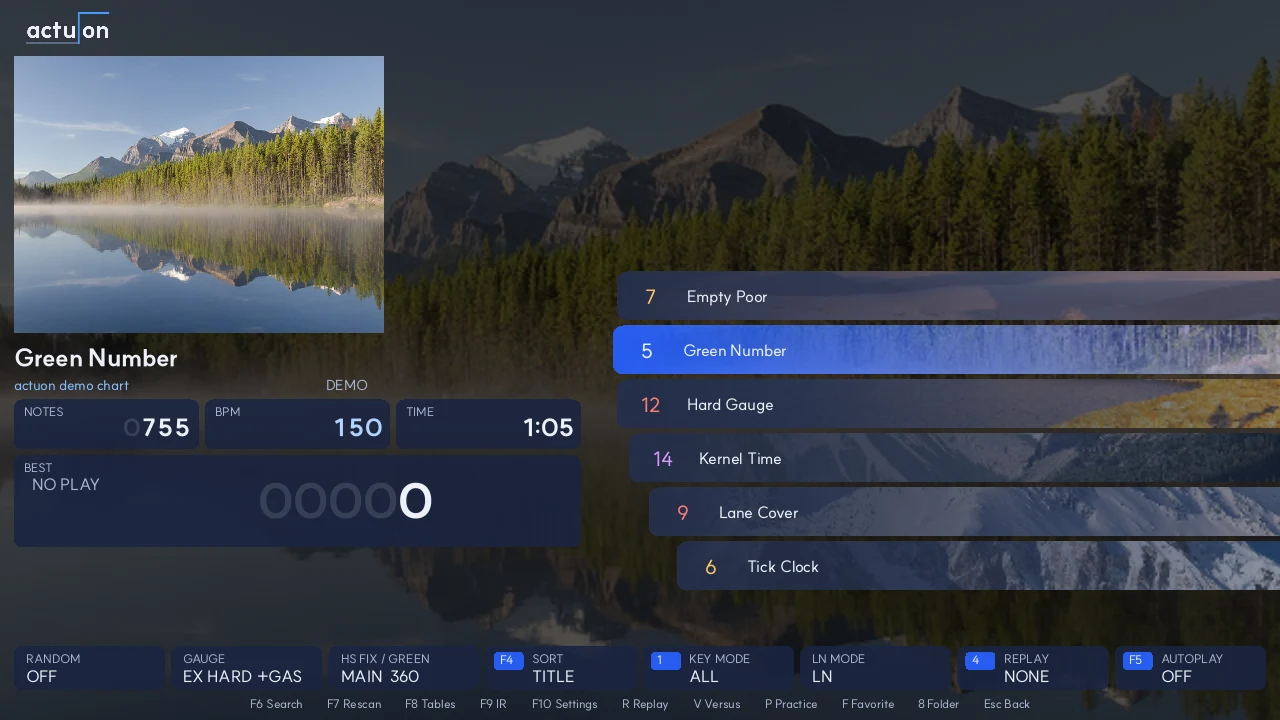
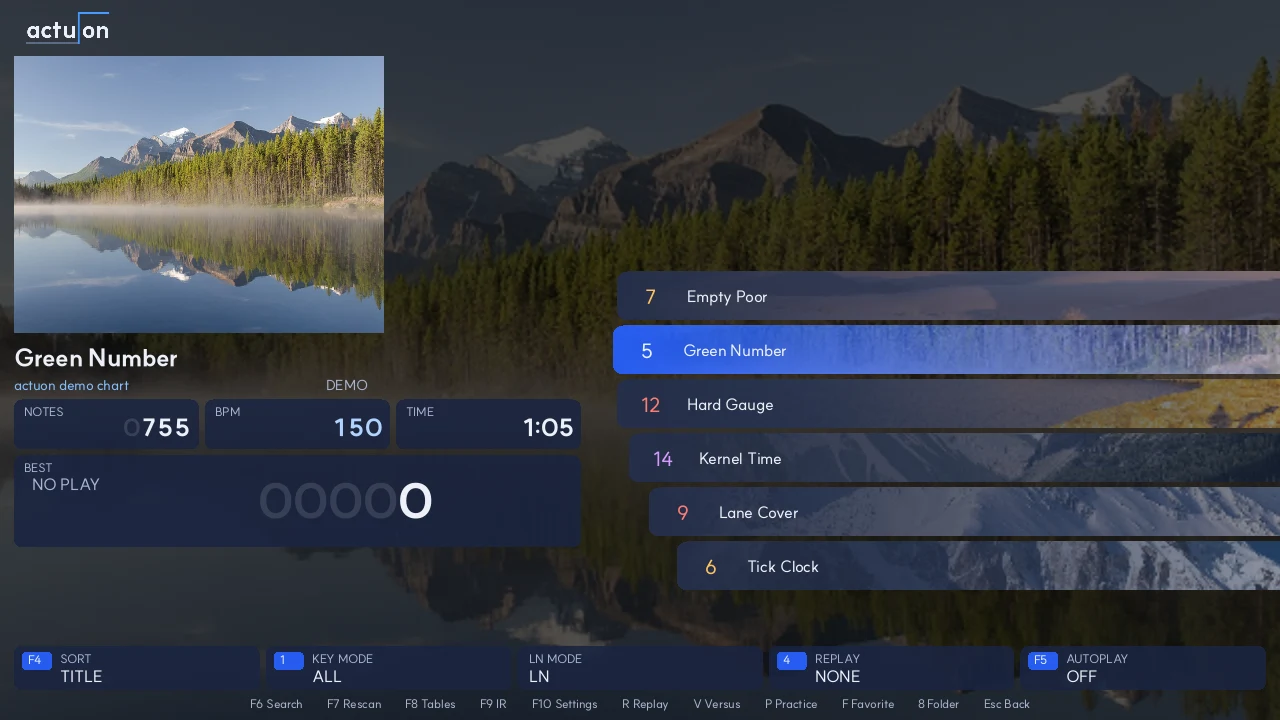
Show only keyed tabs and LN mode in the song select dock, and put the screens in the README
Random, gauge and HS fix live in settings now, so the dock keeps sort, key mode, LN mode, replay and autoplay.
The README shows the site's screens with their photo credits, and its controls drop F1 to F3.

diff --git a/tools/site_shots.py b/tools/site_shots.py
@@ -2,7 +2,7 @@
 """Retakes the site's screenshots (site/screens/*.webp) from generated demo charts.
 Usage: site_shots.py ACTUON_BIN WORK_DIR
 WORK_DIR keeps the downloaded photographs between runs. Needs xvfb-run, Vulkan, ImageMagick and the network once.
-The photographs are credited in the footer of every site page: change both together."""
+The photographs are credited in the footer of every site page and under the README's screens: change them together."""
 import concurrent.futures, json, math, os, random, shutil, struct, subprocess, sys, urllib.parse, urllib.request, wave
 
 binary, work = os.path.abspath(sys.argv[1]), os.path.abspath(sys.argv[2])

diff --git a/README.md b/README.md
@@ -20,6 +20,15 @@ The next-generation BMS player.
 > [!NOTE]
 > **Public beta preparation.** See [docs/compat.md](docs/compat.md) for what works and what does not yet.
 
+![Song select: the chart's artwork fills the screen behind its data and the song wheel](site/screens/select.webp)
+
+<p>
+  <img src="site/screens/play.webp" width="49%" alt="Autoplay partway through a chart, with its BGA beside the lanes">
+  <img src="site/screens/result.webp" width="49%" alt="The result screen after autoplay: rank AAA and a MAX lamp">
+</p>
+
+<sub>Screens show demo charts. Photographs, cropped: <a href="https://commons.wikimedia.org/wiki/File:Pumori,_Nepal,_Asia.jpg">Vyacheslav Argenberg</a> (CC BY 4.0), <a href="https://commons.wikimedia.org/wiki/File:Lake_Kinney_mit_Mount_Whitehorn.jpg">Florian Fuchs</a> (CC BY 3.0), via Wikimedia Commons. Retake them with <code>tools/site_shots.py</code>.</sub>
+
 ## Features
 
 | | |
@@ -66,18 +75,17 @@ Packaging scripts for each OS are in [`packaging/`](packaging). To release, set 
 
 | Key | Action |
 | --- | --- |
-| <kbd>F1</kbd> <kbd>F2</kbd> <kbd>F3</kbd> <kbd>F4</kbd> | Random option, gauge, HS fix, sort |
-| <kbd>F5</kbd> | Autoplay |
+| <kbd>F4</kbd> <kbd>F5</kbd> | Sort, autoplay |
 | <kbd>F6</kbd> <kbd>F7</kbd> <kbd>F8</kbd> | Search, rescan, update difficulty tables |
-| <kbd>F9</kbd> <kbd>F10</kbd> | IR ranking and rivals, settings |
-| <kbd>1</kbd> <kbd>2</kbd> <kbd>3</kbd> | Key mode filter, sort, LN mode for charts that leave it open (CN and HCN plays have their own scores and replays, and stay off the IR) |
+| <kbd>F9</kbd> <kbd>F10</kbd> | IR ranking and rivals, settings. Random, gauge and its auto shift, HS fix, LN mode, judge algorithm, score target and the assists are under Settings, Play and Assist (CN and HCN plays have their own scores and replays, and stay off the IR; an assisted play is not saved) |
+| <kbd>1</kbd> <kbd>2</kbd> | Key mode filter, sort |
 | <kbd>4</kbd> <kbd>R</kbd> | Replay slot, play that replay |
-| <kbd>F</kbd> <kbd>9</kbd> <kbd>P</kbd> | Favorite the chart, change the score target, practice a section of the chart |
+| <kbd>F</kbd> <kbd>P</kbd> | Favorite the chart, practice a section of the chart |
 | <kbd>V</kbd> | Versus room: create one for the chart, or join by code. Needs an IR account |
 | <kbd>F12</kbd> | Screenshot, on any screen, into `screenshots/` in the data folder |
 | <kbd>T</kbd> | Timing graph over a skin's result screen |
 | <kbd>6</kbd> <kbd>7</kbd> <kbd>8</kbd> <kbd>0</kbd> | Key settings, the chart's IR page in the browser, the chart's folder, search |
-| Start, Select | With **beatoraja controls** on (Settings, Controls): 7 key inputs work as in beatoraja. Hold for option panels in song select, with a key for speed in play, both for 1 second to quit |
+| Start, Select | With **beatoraja controls** on (Settings, Controls): 7 key inputs work as in beatoraja. Hold for option panels in song select, with a key for speed in play, both for 1 second to quit; press Start twice to show or hide the lane cover. <kbd>3</kbd> and <kbd>9</kbd> change the LN mode and score target |
 | <kbd>↑</kbd> <kbd>↓</kbd> | Green number while playing |
 | <kbd>Page Up</kbd> <kbd>Page Down</kbd> | Lane cover while playing |
 | <kbd>←</kbd> <kbd>→</kbd> or mouse click | Seek in autoplay: 5 s steps, or to the clicked fraction of the song |
